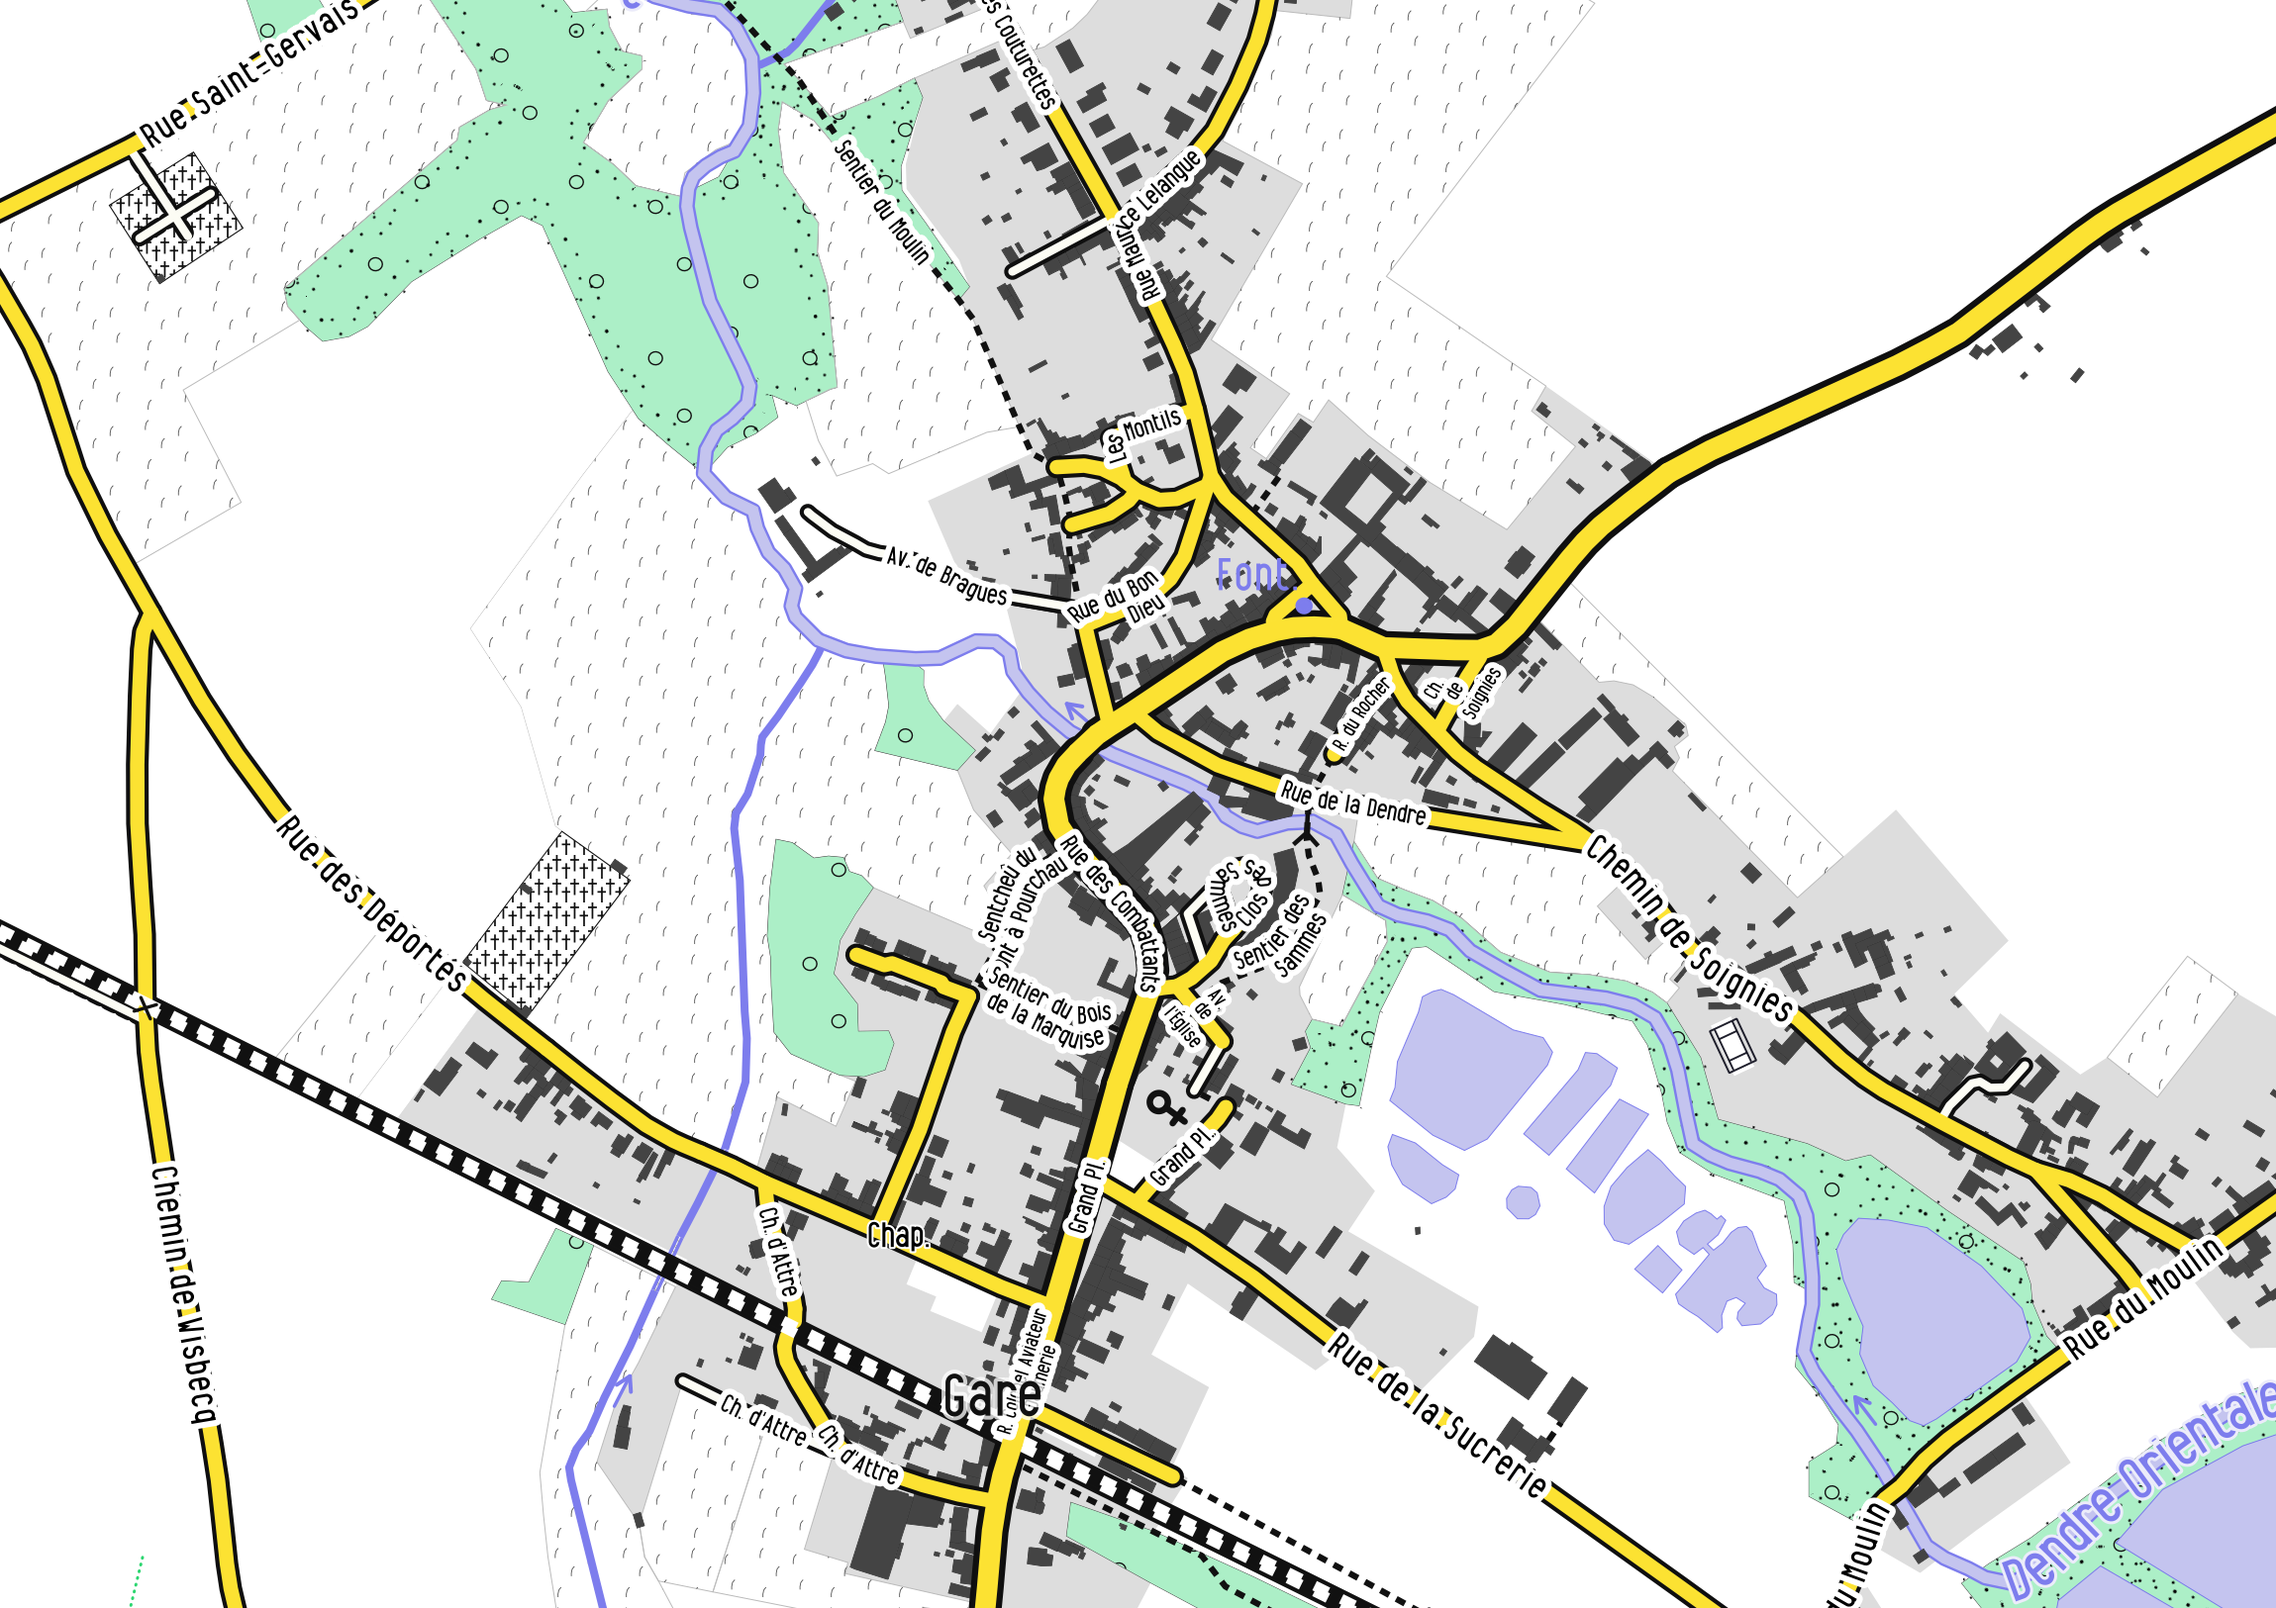
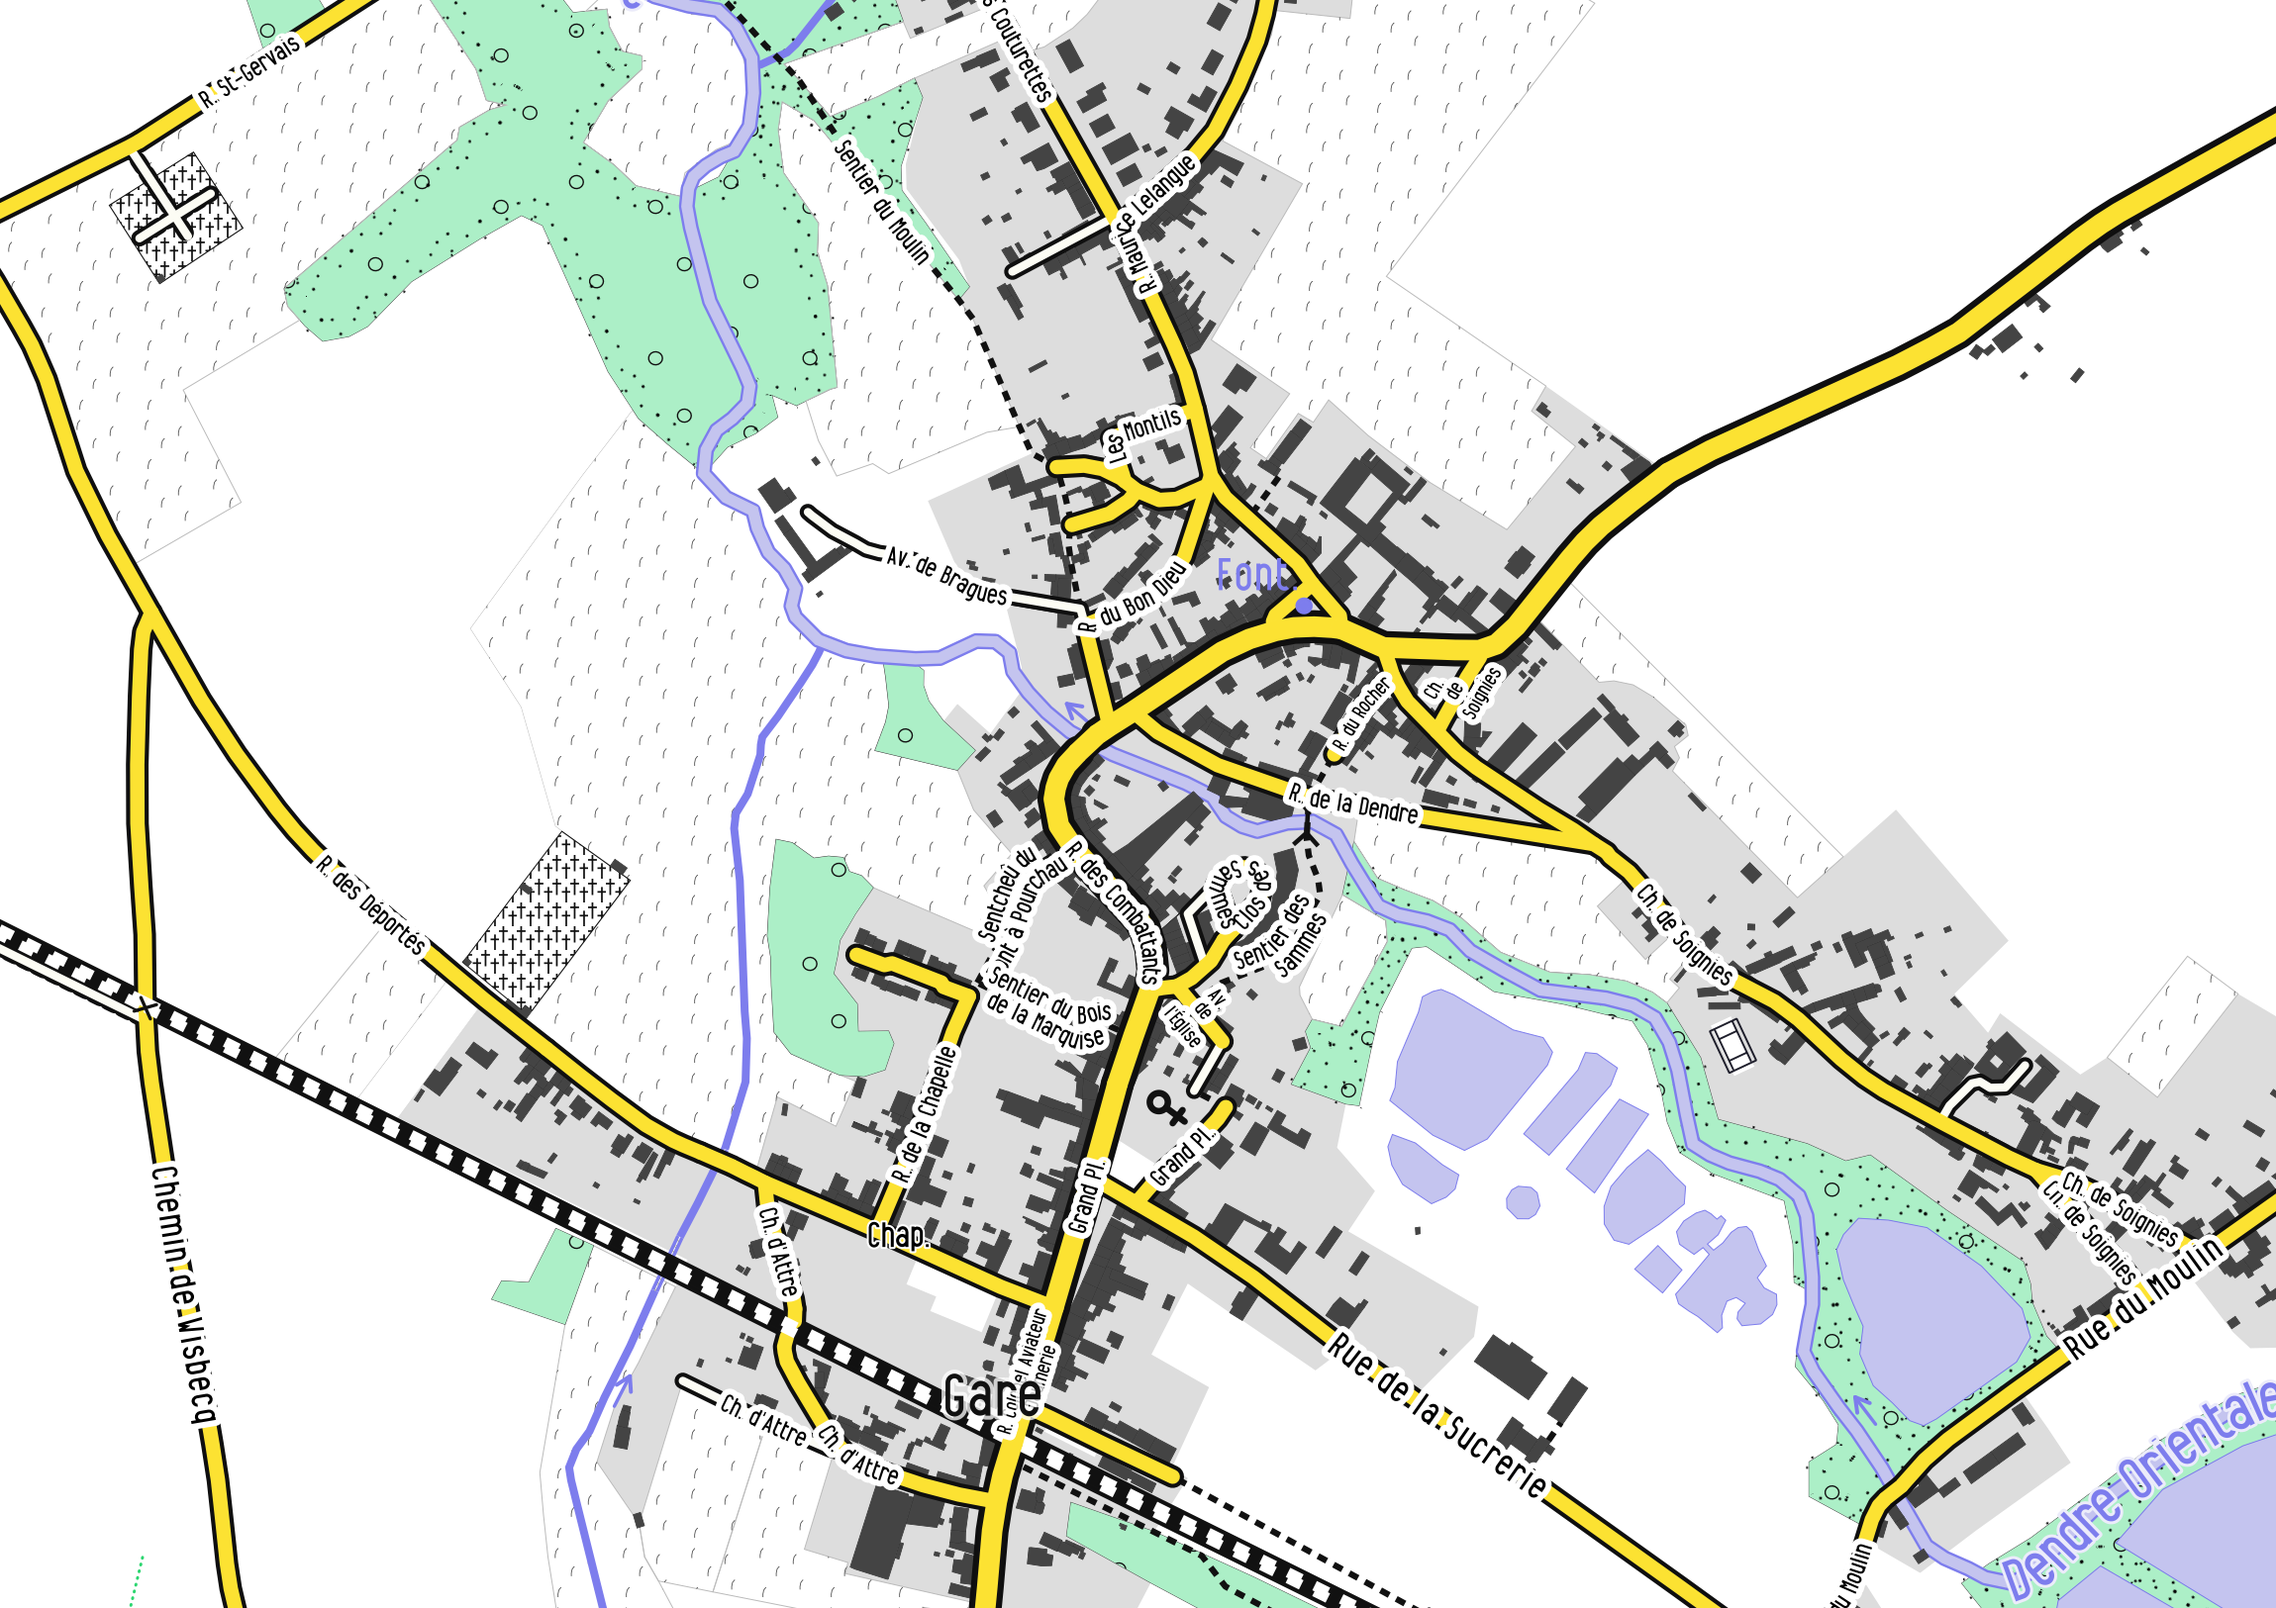
on street labelling

diff --git a/StreetLabellingWithMapnik.md b/StreetLabellingWithMapnik.md
@@ -132,7 +132,7 @@ GROUP BY name, highway
 
 This last map has "lost" some labels because of the adjacent street merging. If you still want some repetitions of labels, then you can set the `text-repeat-distance` parameter for repeating the labels and having full control on it.
 
-# Mixing the rules
+## Mixing the rules
 
 A nice render can be achieved when mixing the above-mentioned properties and especially by setting rules based on the street length.
 
@@ -147,17 +147,16 @@ For instance, the following lines set 5 different street labeling behaviours bas
   text-halo-fill: #ffffff;
   text-halo-radius: 6;
   text-allow-overlap: true;
+  text-max-char-angle-delta: 70;
   [length <= 100] {
     text-name: '[very_short_name]';
     text-wrap-width: 20;
     text-size: @text_size_xxs;
-    text-max-char-angle-delta: 50;
   }
   [length > 100] {
     text-name: '[very_short_name]';
     text-wrap-width: 100;
     text-size: @text_size_xxs;
-    text-max-char-angle-delta: 50;
   }
   [length > 150]{
     text-name: '[short_name]';
@@ -169,7 +168,7 @@ For instance, the following lines set 5 different street labeling behaviours bas
     text-wrap-width: 200;
     text-size: @text_size_xs;
   }
-  [length > 1000]{
+  [length > 1800]{
     text-name: '[name]';
     text-wrap-width: 600;
     text-size: @text_size_s;
@@ -187,7 +186,7 @@ where `[short_name]` is an abbreviated name and `[very_short_name]` an even more
 
 * Decrease the `text-character-spacing` will also condense your text labels, and so could help to place more labels. However, the default is already the smallest value.
 
-* Use "text-simplify". You can use this parameter to simplify the geometry that is labeled. It seems it can have a (limited) effect on the label placement: some labels have disappeared and some others appeared when testing this parameter.
+* Use `text-simplify`. You can use this parameter to simplify the geometry that is labeled. It seems it can have a (limited) effect on the label placement: some labels have disappeared and some others appeared when testing this parameter.
 
 * `text-repeat-distance` is very useful when making rules based on the length of the street. Put some values (in pixels) to increase the distance between two labels when labels are repeated along a same feature.
 
